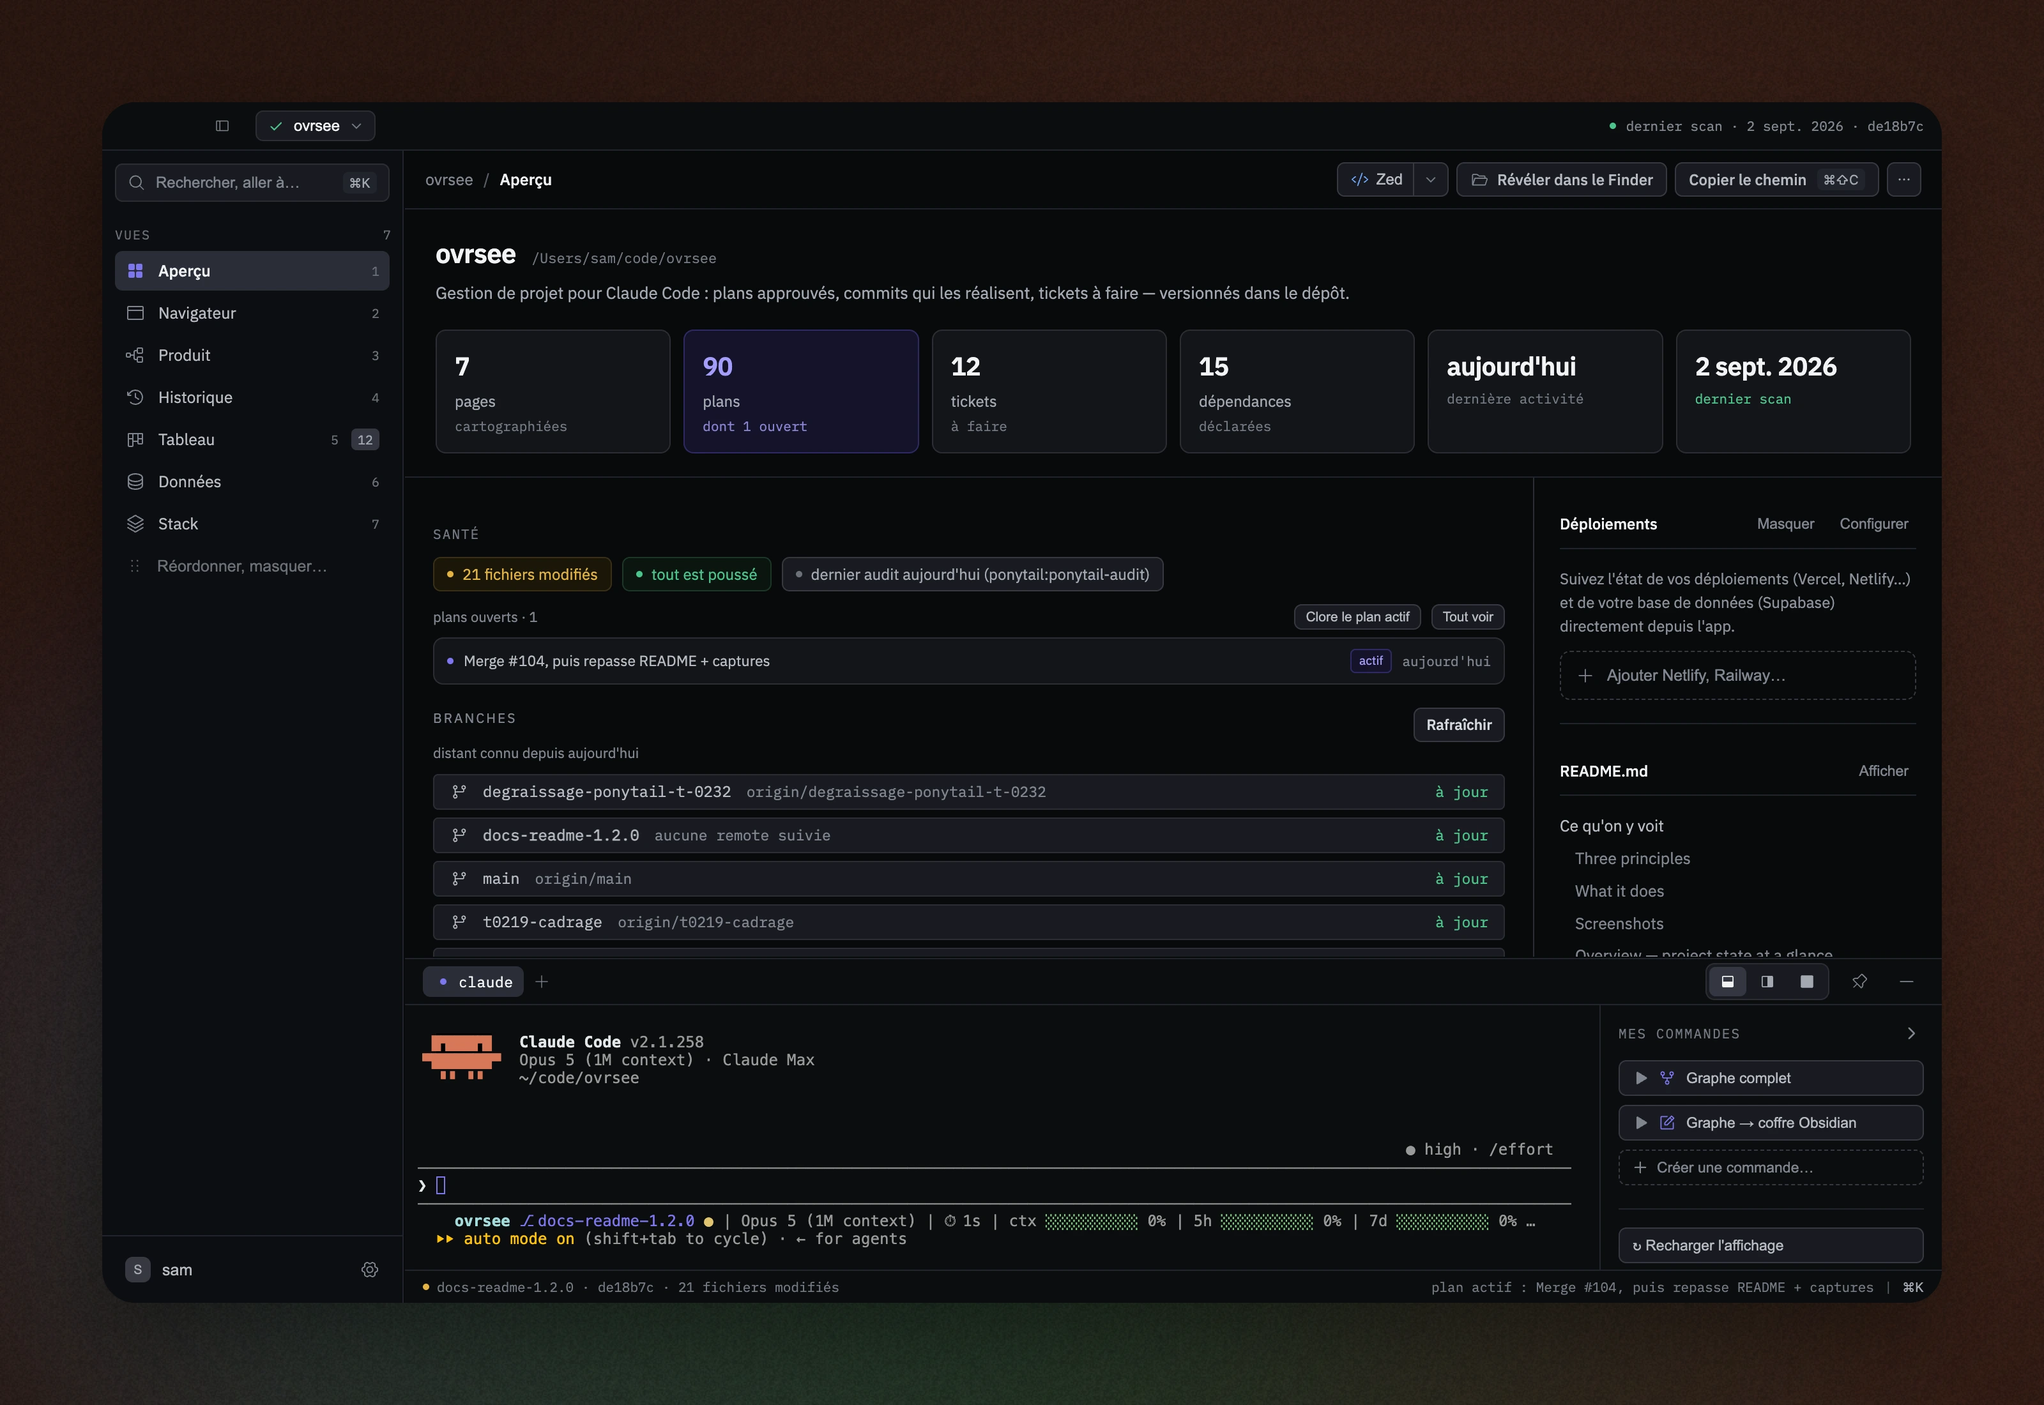
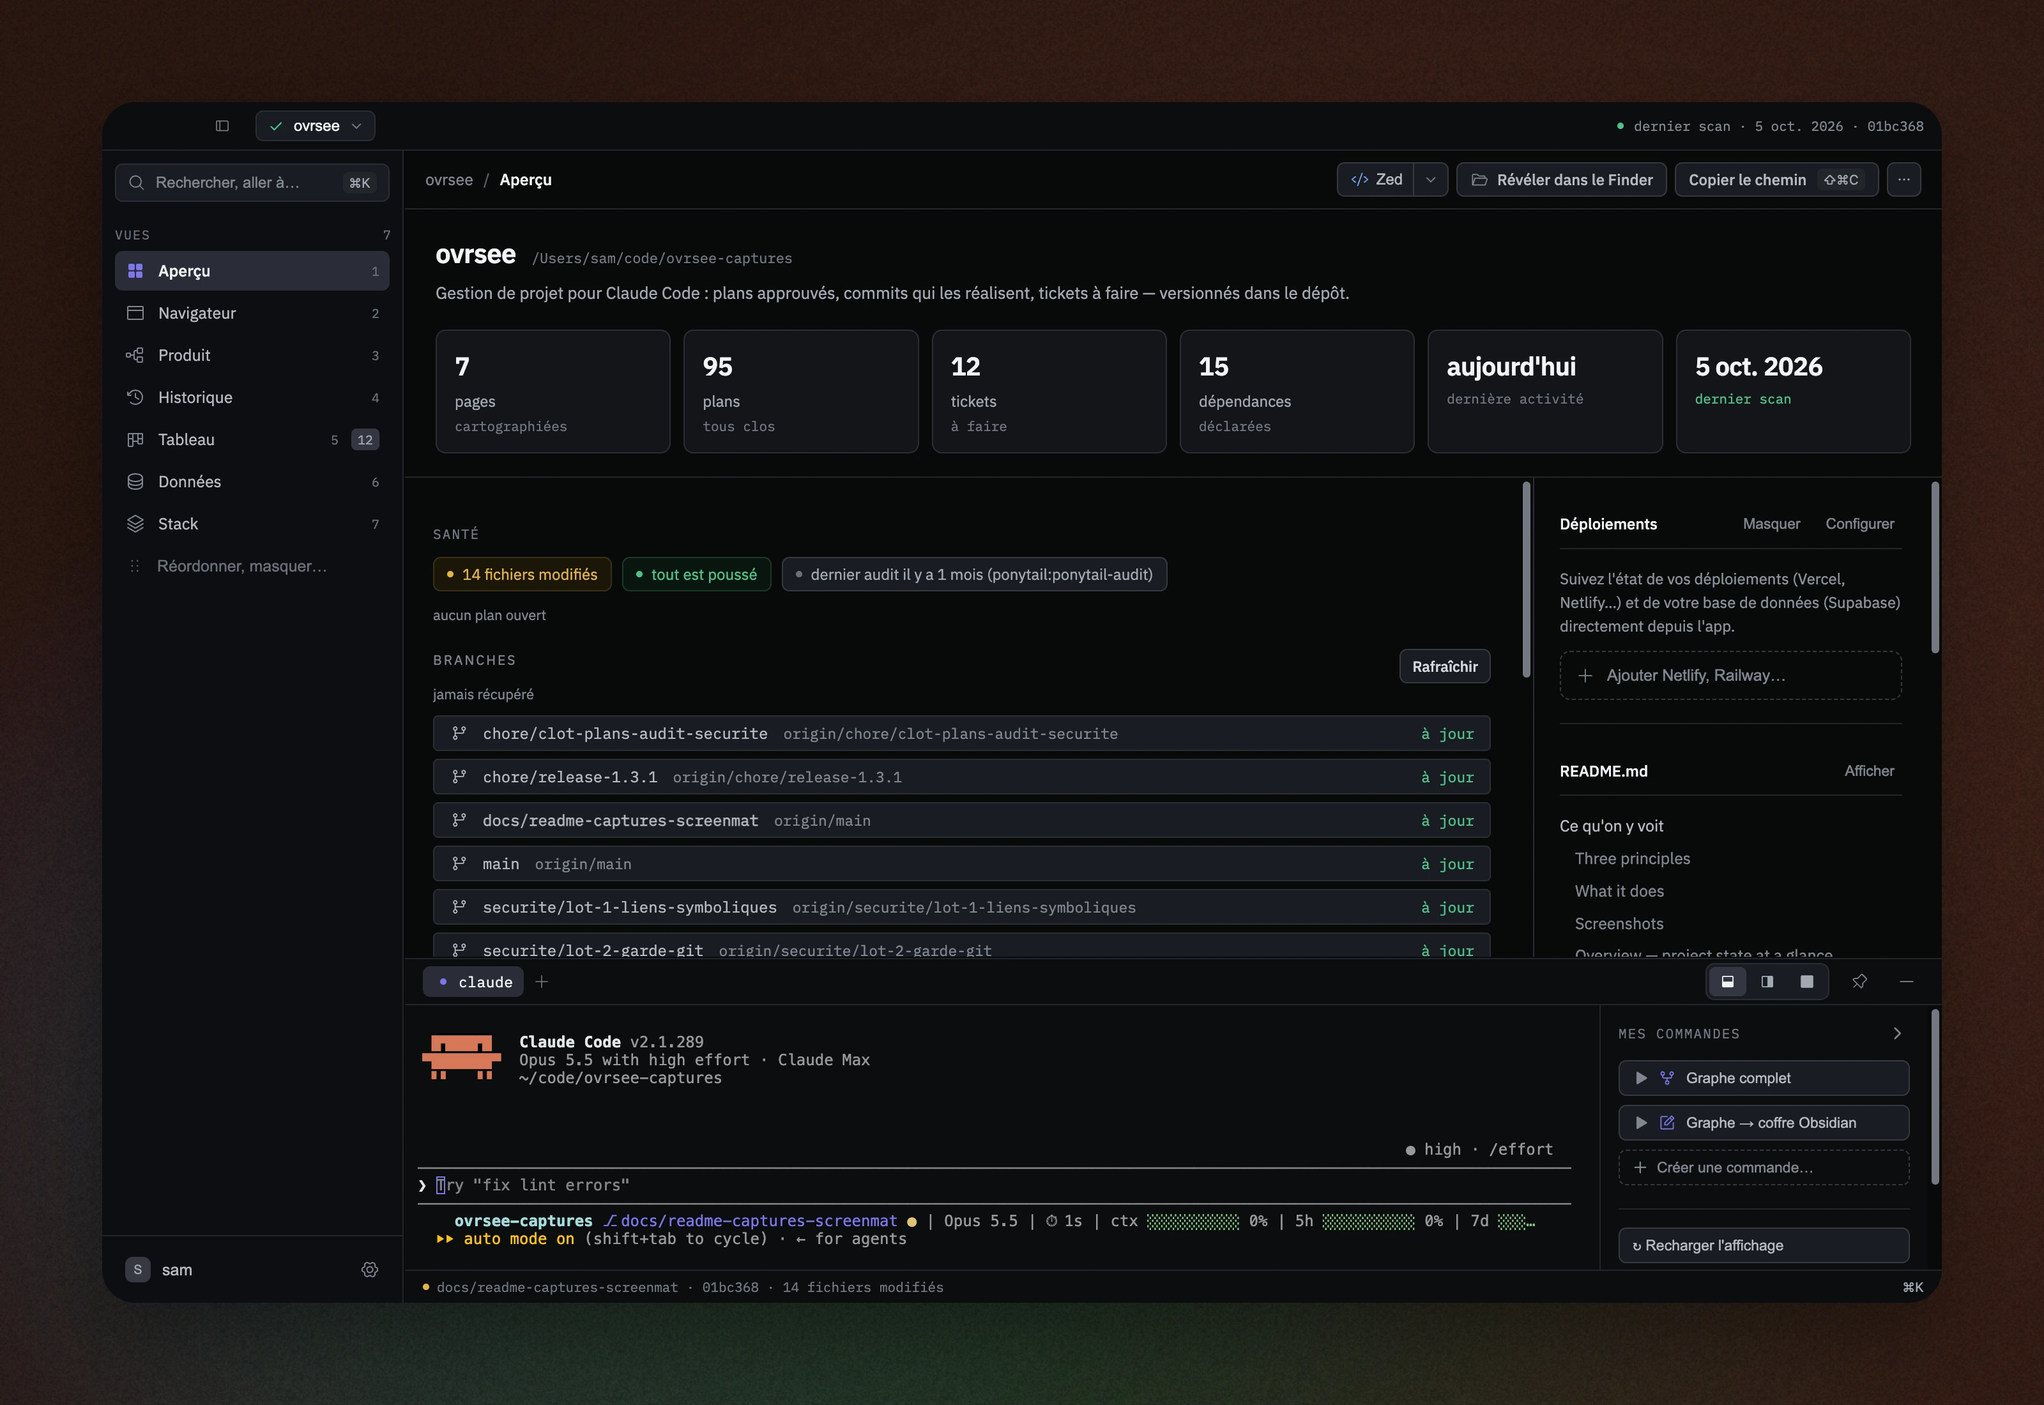
docs: le README rattrape la 1.3.1, captures refaites et encadrées par screenmat (T-0278)
Les sept captures dataient du 2 septembre (T-0264) : avant la 1.2.1, le préfixe
`E-` des epics, « Lancer le serveur » et la 1.3.1. Elles sont reprises par
`pnpm screenshots` et encadrées par screenmat, en webp.

Le script ne photographie plus « le dernier projet ouvert » : sur ce poste,
c'était un dépôt privé, et il partait dans le README. L'app et le dev server
qu'il lance lui-même lisent un registre jetable (`OVRSEE_REGISTRY`) qui ne
contient que ce dépôt. screenmat se désigne par `SCREENMAT` (le clone), comme
dans img-creator, au lieu d'un chemin de poste en dur.

Le texte : le coffre de l'onglet Données se règle dans Préférences → Projet
depuis T-0275, plus par `obsidianVault` ; le Navigateur propose de lancer le
serveur, sous le même accord que le crawl ; la colonne finale montre le dernier
ticket fini en tête ; équiper depuis l'image disque montée est refusé. Versions
de dépendances alignées sur package.json (electron 43.7.5, playwright-core
^1.63.0, oxlint ^1.86.0, react ^19.3.0, vite ^8.3.1).

diff --git a/scripts/screenshots.js b/scripts/screenshots.js
@@ -11,20 +11,35 @@
  * navigateur : hors d'Electron, `Navigateur.tsx` rend `<HorsApplication />` et
  * le terminal intégré n'existe pas. Ce sont justement deux des sept captures.
  *
- * Chaque PNG brut passe ensuite par screenmat, qui pose le cadre arrondi et le
+ * Chaque PNG brut passe ensuite par screenmat
+ * (https://github.com/samuelboulery/screenmat), qui pose le cadre arrondi et le
  * fond. Son `--seed` est fixe : sans lui, le fond changerait à chaque passage et
- * les sept images seraient à recommiter pour rien.
+ * les sept images seraient à recommiter pour rien. `SCREENMAT` désigne le clone
+ * de screenmat, comme dans img-creator — pas de chemin de poste en dur :
+ *
+ *   SCREENMAT=../screenmat pnpm screenshots
+ *
+ * Sans elle, seules les captures brutes sont écrites (dossier temporaire).
  *
  * Prérequis :
  *   pnpm build:ui              — l'app chargée est celle d'`app/dist/`
- *   pnpm dev                   — l'onglet Navigateur pointe sur localhost:5180
- *   le projet ovrsee ouvert en dernier (registre `~/.claude/ovrsee/projects.json`)
+ *   le port 5180 libre         — le script lance lui-même `pnpm dev`, que
+ *                                l'onglet Navigateur affiche
+ *   un dernier crawl réussi    — sinon Produit n'a que des vignettes « scan
+ *                                échoué ». Le lancer sous le même registre
+ *                                jetable, sans quoi les résumés de pages citent
+ *                                le projet que le dev server ouvre en premier.
+ *
+ * Le projet photographié est ce dépôt, dans son état versionné, et lui seul :
+ * app et dev server lisent un registre jetable (`OVRSEE_REGISTRY`) qui ne
+ * contient que lui. Le registre du poste ouvrait le dernier projet ouvert —
+ * privé le cas échéant — et un crawl non commité pouvait citer d'autres dépôts.
  */
 
-import { execFileSync } from 'node:child_process'
-import { existsSync, mkdtempSync } from 'node:fs'
+import { execFileSync, spawn } from 'node:child_process'
+import { existsSync, mkdtempSync, writeFileSync } from 'node:fs'
 import { tmpdir } from 'node:os'
-import { dirname, join } from 'node:path'
+import { dirname, join, resolve } from 'node:path'
 import { fileURLToPath } from 'node:url'
 
 import { _electron as electron } from 'playwright-core'
@@ -49,7 +64,6 @@ export const ONGLETS = [
 const LARGEUR = 1440
 const HAUTEUR = 940
 
-const SCREENMAT = process.env.SCREENMAT ?? '/Users/sam/code/screenmat/cli/main.ts'
 const CADRE = [
   '--frame', 'browser', '--no-title-bar',
   '--ratio', 'auto', '--padding', '0.05',
@@ -63,12 +77,29 @@ async function capturer() {
   if (!existsSync(join(RACINE, 'app', 'dist', 'index.html'))) {
     throw new Error('app/dist absent — lancer `pnpm build:ui` avant')
   }
+  if (await fetch('http://localhost:5180').then(() => true, () => false)) {
+    throw new Error('le port 5180 répond déjà — arrêter le `pnpm dev` en cours')
+  }
 
   const brut = mkdtempSync(join(tmpdir(), 'ovrsee-shots-'))
+  const registre = join(brut, 'projects.json')
+  writeFileSync(registre, JSON.stringify([{ path: RACINE, name: 'ovrsee' }]))
+  const env = { ...process.env, OVRSEE_REGISTRY: registre }
+
+  // `detached` puis `-pid` : tuer `pnpm` seul laisserait vite tenir le port.
+  const dev = spawn('pnpm', ['dev'], { cwd: RACINE, env, stdio: 'ignore', detached: true })
+  try {
+    return await photographier(brut, env)
+  } finally {
+    process.kill(-dev.pid)
+  }
+}
+
+async function photographier(brut, env) {
   // `--force-device-scale-factor=2` : la fenêtre reste à 1440×940 points et se
   // photographie en 2880×1880 pixels. Sans lui, les captures sont à 1× et le
   // texte du README est illisible dès qu'on les regarde en grand.
-  const app = await electron.launch({ args: ['.', '--force-device-scale-factor=2'], cwd: RACINE })
+  const app = await electron.launch({ args: ['.', '--force-device-scale-factor=2'], cwd: RACINE, env })
   const page = await app.firstWindow()
 
   // Le thème du README est le sombre. Le réglage du poste n'est pas touché :
@@ -121,12 +152,14 @@ async function capturer() {
 }
 
 function habiller(faites) {
-  if (!existsSync(SCREENMAT)) {
-    console.error(`screenmat introuvable (${SCREENMAT}) — captures brutes laissées dans ${dirname(faites[0][1])}`)
+  const screenmat = process.env.SCREENMAT && resolve(process.env.SCREENMAT)
+  if (!screenmat || !existsSync(join(screenmat, 'cli', 'main.ts'))) {
+    console.error(`SCREENMAT ne désigne pas un clone de screenmat — captures brutes laissées dans ${dirname(faites[0][1])}`)
     return
   }
   for (const [id, fichier] of faites) {
-    execFileSync('node', [SCREENMAT, fichier, ...CADRE, '--out', join(SORTIE, `${id}.webp`)], {
+    execFileSync('pnpm', ['-s', 'cli', fichier, ...CADRE, '--out', join(SORTIE, `${id}.webp`)], {
+      cwd: screenmat,
       stdio: ['ignore', 'ignore', 'inherit'],
     })
     console.error(`habillé : docs/screenshots/${id}.webp`)

diff --git a/README.fr.md b/README.fr.md
@@ -66,6 +66,8 @@ session Claude en cours.
 Un navigateur intégré (barre d'adresse, DevTools, sélecteur d'élément) pour inspecter
 l'application observée directement depuis l'interface. Un élément se commente sur
 place : le commentaire et le descriptif partent à Claude, ou directement dans un ticket.
+Quand le serveur de dev de l'application observée ne tourne pas, l'écran d'erreur
+propose de le lancer, après le même accord que le crawl.
 
 ### Produit — le graphe de navigation
 ![Onglet Produit](./docs/screenshots/produit.webp)
@@ -85,7 +87,8 @@ apparaît avec son statut. Filtrable par plans, tickets et commits hors plan.
 Un fichier par ticket dans `ovrsee/tickets/`, colonnes réglées dans `ovrsee/board.json`.
 Écrit ici comme depuis le terminal intégré — une image collée dans un ticket est rangée
 à côté de lui. Les epics affichent leur avancement et leurs tickets enfants dans leur
-propre vue ; le kanban ne contient que des tickets. Les tickets se numérotent `T-0012`,
+propre vue ; le kanban ne contient que des tickets, le dernier fini en tête de la
+colonne finale. Les tickets se numérotent `T-0012`,
 les epics `E-0012`, sur un seul compteur : cocher « epic » change le préfixe et garde
 le numéro. Les epics nés avant ce préfixe passent en `E-` par
 `pnpm ovrsee:migrate-epics`.
@@ -125,7 +128,9 @@ Prendre la version de sa plateforme sur l'onglet
 [Releases](https://github.com/samuelboulery/ovrsee/releases). Les binaires ne sont **ni
 signés ni notariés** : macOS refuse le premier lancement — clic droit sur l'application,
 puis *Ouvrir* — et Windows affiche un avertissement SmartScreen, qu'on passe par
-*Informations complémentaires* puis *Exécuter quand même*.
+*Informations complémentaires* puis *Exécuter quand même*. Sur macOS, glisser
+d'abord l'application dans Applications : équiper un dépôt depuis l'image disque montée
+est refusé.
 
 | Plateforme | Format |
 |---|---|
@@ -244,9 +249,10 @@ C'est ce que fait le bouton « ◈ Graphe → coffre Obsidian » du terminal int
 
 ### Coffre comme source de l'onglet Données
 
-Si vous documentez dans Obsidian plutôt qu'avec Graphify, le champ `obsidianVault`
-dans `ovrsee.config.json` désigne un coffre, et l'onglet Données le lit **quand Graphify
-n'a rien produit**.
+Si vous documentez dans Obsidian plutôt qu'avec Graphify, désignez un coffre dans
+Préférences → Projet, et l'onglet Données le lit **quand Graphify n'a rien produit**.
+C'est un réglage du poste : un champ `obsidianVault` encore présent dans
+`ovrsee.config.json` est ignoré, et l'onglet Données le signale.
 
 Une note est une table quand son frontmatter porte `type: table`. `columns` en donne
 les colonnes, `maj` la date de dernière mise à jour :
@@ -315,22 +321,22 @@ Sobriété délibérée : **5 dépendances de production**, le reste est du Node
 | `@xterm/xterm` | 6.0.0 | le terminal intégré |
 | `@xterm/addon-fit` | ^0.11.0 | il suit la taille du panneau |
 | `node-pty` | 1.1.0 | un vrai pty derrière ce terminal |
-| `playwright-core` | ^1.62.1 | pilote le crawl, y compris dans l'app livrée |
+| `playwright-core` | ^1.63.0 | pilote le crawl, y compris dans l'app livrée |
 
 **Développement**
 
 | Paquet | Version |
 |---|---|
-| `react` | ^19.2.8 |
-| `react-dom` | ^19.2.8 |
+| `react` | ^19.3.0 |
+| `react-dom` | ^19.3.0 |
 | `typescript` | ^7.0.2 |
-| `vite` | ^8.2.2 |
-| `electron` | 43.4.1 |
+| `vite` | ^8.3.1 |
+| `electron` | 43.7.5 |
 | `electron-builder` | ^26.15.3 |
-| `oxlint` | ^1.80.0 |
+| `oxlint` | ^1.86.0 |
 | `@vitejs/plugin-react` | ^6.1.0 |
-| `@types/react` | ^19.2.18 |
-| `@types/react-dom` | ^19.2.5 |
+| `@types/react` | ^19.3.0 |
+| `@types/react-dom` | ^19.3.0 |
 
 Gestionnaire de paquets : `pnpm@11.22.0`, épinglé dans `package.json` et fait respecter
 par Corepack. Depuis la version 11, `.npmrc` ne porte plus que l'authentification et le
@@ -355,7 +361,8 @@ deux plans sont actifs, n'est rattaché nulle part — et le dit sur stderr.
 
 **La commande `dev` exige un accord, et il vit hors du dépôt.**
 `ovrsee.config.json` est versionné : sa ligne `dev` vient de l'auteur du dépôt observé,
-pas de vous, et le crawl la passe à un shell. Ce qui est retenu — dans
+pas de vous, et le crawl — comme « Lancer le serveur » dans l'onglet Navigateur — la
+passe à un shell. Ce qui est retenu — dans
 `~/.claude/ovrsee/trust.json` — est la chaîne exacte : un `dev` modifié redemande
 l'accord. Ce n'est pas une revue de commande : `pnpm dev` est inoffensif à l'œil, ce
 qu'il exécute vit dans le `package.json` de ce dépôt. On accorde une confiance à une

diff --git a/README.md b/README.md
@@ -65,6 +65,8 @@ running.
 An embedded browser (address bar, DevTools, element picker) to inspect the
 observed application directly from the interface. Pick an element and comment on it:
 the comment and the element's description go to Claude, or straight into a ticket.
+When the observed app's dev server is not running, the error screen offers to start
+it, after the same approval as the crawl.
 
 ### Product — the navigation graph
 ![Product tab](./docs/screenshots/produit.webp)
@@ -84,7 +86,8 @@ ticket shows up with its status. Filterable by plans, tickets, and off-plan comm
 One file per ticket in `ovrsee/tickets/`, columns set in `ovrsee/board.json`.
 Written here just like from the integrated terminal — an image pasted into a ticket
 is stored next to it. Epics show their progress and their child tickets in their own
-view; the kanban holds tickets only. Tickets are numbered `T-0012`, epics `E-0012`,
+view; the kanban holds tickets only, with the most recently finished first in the
+final column. Tickets are numbered `T-0012`, epics `E-0012`,
 on a single counter: ticking “epic” swaps the prefix and keeps the number. Epics
 created before that prefix move over with `pnpm ovrsee:migrate-epics`.
 
@@ -122,7 +125,8 @@ Download the build for your platform from the
 [Releases](https://github.com/samuelboulery/ovrsee/releases) tab. They are **neither
 signed nor notarised**: macOS refuses the first launch — right-click the app, then
 *Open* — and Windows shows a SmartScreen warning, which you get past with *More info*
-then *Run anyway*.
+then *Run anyway*. On macOS, drag the app into Applications first: equipping a
+repository from the mounted disk image is refused.
 
 | Platform | Format |
 |---|---|
@@ -237,9 +241,10 @@ That's what the "◈ Graph → Obsidian vault" button in the integrated terminal
 
 ### Vault as the Data tab's source
 
-If you document in Obsidian instead of Graphify, the `obsidianVault` field in
-`ovrsee.config.json` points at a vault, and the Data tab reads it **only when
-Graphify produced nothing**.
+If you document in Obsidian instead of Graphify, point at a vault in Preferences →
+Project, and the Data tab reads it **only when Graphify produced nothing**. It is a
+setting of this machine: an `obsidianVault` field still found in `ovrsee.config.json`
+is ignored, and the Data tab says so.
 
 A note is a table when its frontmatter carries `type: table`. `columns` gives the
 columns, `maj` the last-updated date:
@@ -308,22 +313,22 @@ Deliberately minimal: **5 production dependencies**, everything else is plain No
 | `@xterm/xterm` | 6.0.0 | the integrated terminal |
 | `@xterm/addon-fit` | ^0.11.0 | it follows the panel's size |
 | `node-pty` | 1.1.0 | a real pty behind that terminal |
-| `playwright-core` | ^1.62.1 | drives the crawl, in the packaged app too |
+| `playwright-core` | ^1.63.0 | drives the crawl, in the packaged app too |
 
 **Development**
 
 | Package | Version |
 |---|---|
-| `react` | ^19.2.8 |
-| `react-dom` | ^19.2.8 |
+| `react` | ^19.3.0 |
+| `react-dom` | ^19.3.0 |
 | `typescript` | ^7.0.2 |
-| `vite` | ^8.2.2 |
-| `electron` | 43.4.1 |
+| `vite` | ^8.3.1 |
+| `electron` | 43.7.5 |
 | `electron-builder` | ^26.15.3 |
-| `oxlint` | ^1.80.0 |
+| `oxlint` | ^1.86.0 |
 | `@vitejs/plugin-react` | ^6.1.0 |
-| `@types/react` | ^19.2.18 |
-| `@types/react-dom` | ^19.2.5 |
+| `@types/react` | ^19.3.0 |
+| `@types/react-dom` | ^19.3.0 |
 
 Package manager: `pnpm@11.22.0`, pinned in `package.json` and enforced by Corepack.
 Since version 11, `.npmrc` only carries authentication and the registry: every other
@@ -340,7 +345,8 @@ Attribution goes through four stages: a `T-XXXX` ticket (or `E-XXXX` epic) quote
 
 **The `dev` command needs an agreement, and it lives outside the repository.**
 `ovrsee.config.json` is versioned: its `dev` line is supplied by the observed
-repository, not by you, and the crawl hands it to a shell. What is remembered — in
+repository, not by you, and the crawl — like the Browser tab's *Start the server* —
+hands it to a shell. What is remembered — in
 `~/.claude/ovrsee/trust.json` — is the exact string, so a changed `dev` asks again.
 This is not a command review: `pnpm dev` looks harmless, what it runs lives in that
 repository's `package.json`. You are trusting a provenance.

diff --git a/ovrsee/tickets/T-0278-le-readme-montre-la-1-2-alors-que-la-1-3-1-est-sortie.md b/ovrsee/tickets/T-0278-le-readme-montre-la-1-2-alors-que-la-1-3-1-est-sortie.md
@@ -1,0 +1,36 @@
+---
+{
+  "id": "T-0278",
+  "titre": "Le README montre la 1.2 alors que la 1.3.1 est sortie",
+  "colonne": "en-cours",
+  "priorite": "moyenne",
+  "tags": [
+    "docs"
+  ],
+  "cree": "2026-10-05",
+  "maj": "2026-10-05",
+  "plan": null
+}
+---
+
+## Contexte
+
+Les sept captures de `docs/screenshots/` datent du 2 septembre (T-0264) : elles
+précèdent la 1.2.1, la 1.3.0 (préfixe `E-` des epics, bouton « Lancer le serveur »
+de l'onglet Navigateur, colonne finale triée par date de fin) et la 1.3.1.
+
+Le texte a le même retard par endroits : la section « Coffre comme source de
+l'onglet Données » renvoie encore au champ `obsidianVault` d'`ovrsee.config.json`,
+que T-0275 a cessé de lire au profit de Préférences → Projet, et les tables de
+dépendances citent `electron 43.4.1`, `playwright-core ^1.62.1`, `oxlint ^1.80.0`.
+
+## Critères d'acceptation
+
+- [ ] `pnpm screenshots` a régénéré les sept captures, encadrées par screenmat, en
+      webp ; aucune n'est vide, aucune ne montre de donnée personnelle.
+- [ ] Le script n'embarque plus de chemin propre à un poste : screenmat se désigne
+      par la variable `SCREENMAT` (dossier du dépôt screenmat), comme dans img-creator.
+- [ ] `README.md` et `README.fr.md` ne citent plus `obsidianVault` dans
+      `ovrsee.config.json`, leurs versions de dépendances suivent `package.json`, et
+      les nouveautés visibles de la 1.3.0 y sont nommées.
+- [ ] `pnpm test` passe (`scripts/screenshots.test.js` compris).
